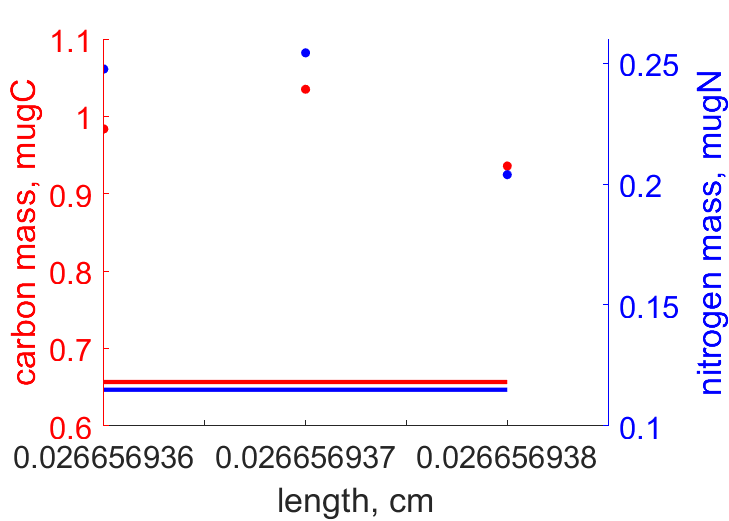
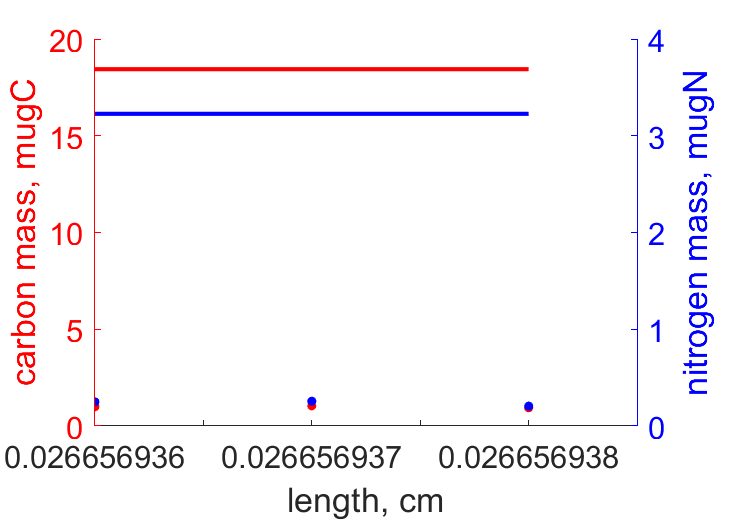
update

diff --git a/Tachidius_discipes/Tachidius_discipes_res.html b/Tachidius_discipes/Tachidius_discipes_res.html
@@ -44,7 +44,7 @@
   </div>
 
   <div class="par">
-  <h4>COMPLETE = 2.0; MRE =    8.874; SMAE =    1.218; SMSE =    1.178 </h4>
+  <h4>COMPLETE = 2.0; MRE =    0.204; SMAE =    0.203; SMSE =    0.077 </h4>
   </div>
 
   <p class="clear"></p>
@@ -53,31 +53,31 @@
   <h2>Data & predictions</h2>
   <TABLE id="prd">
     <TR  class="head"><TH>data</TH> <TH>prd</TH> <TH>RE</TH>  <TH>symbol</TH> <TH>units</TH> <TH>description</TH> </TR>
-    <TR><TD>4.375</TD> <TD>0.3134</TD> <TD>0.9284</TD> <TD>ah</TD> <TD>d</TD> <TD>age at hatch</TD></TR>
-    <TR><TD>0.006853</TD> <TD>0.002727</TD> <TD>0.6021</TD> <TD>Lh</TD> <TD>cm</TD> <TD>length at hatch</TD></TR>
-    <TR><TD>0.007812</TD> <TD>0.00311</TD> <TD>0.6019</TD> <TD>Lb</TD> <TD>cm</TD> <TD>length at birth</TD></TR>
-    <TR><TD>0.02666</TD> <TD>0.01096</TD> <TD>0.5888</TD> <TD>Lp</TD> <TD>cm</TD> <TD>length at puberty</TD></TR>
-    <TR><TD>2.057e-05</TD> <TD>9.092e-08</TD> <TD>0.9956</TD> <TD>Wdp</TD> <TD>g</TD> <TD>ultimate dry weight at puberty</TD></TR>
-    <TR><TD colspan="2">see figure</TD> <TD>0.4123</TD> <TD>tL12</TD> <TD colspan="2">time <font color="blue"><i>vs.</i></font> area^(1/2)</TD>
-    <TR><TD colspan="2">see figure</TD> <TD>0.4113</TD> <TD>tL15</TD> <TD colspan="2">time <font color="blue"><i>vs.</i></font> area^(1/2)</TD>
-    <TR><TD colspan="2">see figure</TD> <TD>0.39</TD> <TD>tL18</TD> <TD colspan="2">time <font color="blue"><i>vs.</i></font> area^(1/2)</TD>
-    <TR><TD colspan="2">see figure</TD> <TD>0.3866</TD> <TD>tL21</TD> <TD colspan="2">time <font color="blue"><i>vs.</i></font> area^(1/2)</TD>
-    <TR><TD colspan="2">see figure</TD> <TD>0.3989</TD> <TD>tL24</TD> <TD colspan="2">time <font color="blue"><i>vs.</i></font> area^(1/2)</TD>
-    <TR><TD colspan="2">see figure</TD> <TD>22.29</TD> <TD>tN12</TD> <TD colspan="2">time <font color="blue"><i>vs.</i></font> clutch size</TD>
-    <TR><TD colspan="2">see figure</TD> <TD>24.52</TD> <TD>tN15</TD> <TD colspan="2">time <font color="blue"><i>vs.</i></font> clutch size</TD>
-    <TR><TD colspan="2">see figure</TD> <TD>21.16</TD> <TD>tN18</TD> <TD colspan="2">time <font color="blue"><i>vs.</i></font> clutch size</TD>
-    <TR><TD colspan="2">see figure</TD> <TD>28.67</TD> <TD>tN21</TD> <TD colspan="2">time <font color="blue"><i>vs.</i></font> clutch size</TD>
-    <TR><TD colspan="2">see figure</TD> <TD>36.83</TD> <TD>tN24</TD> <TD colspan="2">time <font color="blue"><i>vs.</i></font> clutch size</TD>
-    <TR><TD colspan="2">see figure</TD> <TD>0.8943</TD> <TD>Tah</TD> <TD colspan="2">temperature <font color="blue"><i>vs.</i></font> age at hatching</TD>
-    <TR><TD colspan="2">see figure</TD> <TD>27.28</TD> <TD>TR</TD> <TD colspan="2">temperature <font color="blue"><i>vs.</i></font> max reproduction rate</TD>
-    <TR><TD colspan="2">see figure</TD> <TD>0.4224</TD> <TD>LWCN</TD> <TD colspan="2">length <font color="blue"><i>vs.</i></font> carbon mass</TD>
-    <TR><TD colspan="2">see figure</TD> <TD>0.8158</TD> <TD>Tap</TD> <TD colspan="2">temperature <font color="blue"><i>vs.</i></font> age at puberty</TD>
-    <TR class="psd"><TD>0.02</TD> <TD>0.02594</TD> <TD>0.2972</TD> <TD>psd.v</TD> <TD>cm/d</TD> <TD>energy conductance</TD></TR>
-    <TR class="psd"><TD>0.8</TD> <TD>0.8</TD> <TD>  0</TD> <TD>psd.kap</TD> <TD>-</TD> <TD>allocation fraction to soma</TD></TR>
+    <TR><TD>4.375</TD> <TD>4.041</TD> <TD>0.07625</TD> <TD>ah</TD> <TD>d</TD> <TD>age at hatch</TD></TR>
+    <TR><TD>0.006853</TD> <TD>0.007461</TD> <TD>0.08875</TD> <TD>Lh</TD> <TD>cm</TD> <TD>length at hatch</TD></TR>
+    <TR><TD>0.007812</TD> <TD>0.00812</TD> <TD>0.03944</TD> <TD>Lb</TD> <TD>cm</TD> <TD>length at birth</TD></TR>
+    <TR><TD>0.02666</TD> <TD>0.02195</TD> <TD>0.1767</TD> <TD>Lp</TD> <TD>cm</TD> <TD>length at puberty</TD></TR>
+    <TR><TD>2.057e-05</TD> <TD>2.049e-05</TD> <TD>0.003805</TD> <TD>Wdp</TD> <TD>g</TD> <TD>ultimate dry weight at puberty</TD></TR>
+    <TR><TD colspan="2">see figure</TD> <TD>0.2191</TD> <TD>tL12</TD> <TD colspan="2">time <font color="blue"><i>vs.</i></font> area^(1/2)</TD>
+    <TR><TD colspan="2">see figure</TD> <TD>0.1857</TD> <TD>tL15</TD> <TD colspan="2">time <font color="blue"><i>vs.</i></font> area^(1/2)</TD>
+    <TR><TD colspan="2">see figure</TD> <TD>0.1825</TD> <TD>tL18</TD> <TD colspan="2">time <font color="blue"><i>vs.</i></font> area^(1/2)</TD>
+    <TR><TD colspan="2">see figure</TD> <TD>0.1798</TD> <TD>tL21</TD> <TD colspan="2">time <font color="blue"><i>vs.</i></font> area^(1/2)</TD>
+    <TR><TD colspan="2">see figure</TD> <TD>0.1445</TD> <TD>tL24</TD> <TD colspan="2">time <font color="blue"><i>vs.</i></font> area^(1/2)</TD>
+    <TR><TD colspan="2">see figure</TD> <TD>0.1542</TD> <TD>tN12</TD> <TD colspan="2">time <font color="blue"><i>vs.</i></font> clutch size</TD>
+    <TR><TD colspan="2">see figure</TD> <TD>0.2581</TD> <TD>tN15</TD> <TD colspan="2">time <font color="blue"><i>vs.</i></font> clutch size</TD>
+    <TR><TD colspan="2">see figure</TD> <TD>0.2068</TD> <TD>tN18</TD> <TD colspan="2">time <font color="blue"><i>vs.</i></font> clutch size</TD>
+    <TR><TD colspan="2">see figure</TD> <TD>0.4694</TD> <TD>tN21</TD> <TD colspan="2">time <font color="blue"><i>vs.</i></font> clutch size</TD>
+    <TR><TD colspan="2">see figure</TD> <TD>0.3538</TD> <TD>tN24</TD> <TD colspan="2">time <font color="blue"><i>vs.</i></font> clutch size</TD>
+    <TR><TD colspan="2">see figure</TD> <TD>0.2498</TD> <TD>Tah</TD> <TD colspan="2">temperature <font color="blue"><i>vs.</i></font> age at hatching</TD>
+    <TR><TD colspan="2">see figure</TD> <TD>0.5537</TD> <TD>TR</TD> <TD colspan="2">temperature <font color="blue"><i>vs.</i></font> max reproduction rate</TD>
+    <TR><TD colspan="2">see figure</TD> <TD>91.32</TD> <TD>LWCN</TD> <TD colspan="2">length <font color="blue"><i>vs.</i></font> carbon mass</TD>
+    <TR><TD colspan="2">see figure</TD> <TD>0.1242</TD> <TD>Tap</TD> <TD colspan="2">temperature <font color="blue"><i>vs.</i></font> age at puberty</TD>
+    <TR class="psd"><TD>0.02</TD> <TD>0.01019</TD> <TD>0.4903</TD> <TD>psd.v</TD> <TD>cm/d</TD> <TD>energy conductance</TD></TR>
+    <TR class="psd"><TD>0.8</TD> <TD>0.9994</TD> <TD>0.2493</TD> <TD>psd.kap</TD> <TD>-</TD> <TD>allocation fraction to soma</TD></TR>
     <TR class="psd"><TD>0.95</TD> <TD>0.95</TD> <TD>  0</TD> <TD>psd.kap_R</TD> <TD>-</TD> <TD>reproduction efficiency</TD></TR>
-    <TR class="psd"><TD> 18</TD> <TD>927.5</TD> <TD>50.53</TD> <TD>psd.p_M</TD> <TD>J/d.cm^3</TD> <TD>vol-spec som maint</TD></TR>
+    <TR class="psd"><TD> 18</TD> <TD>2765</TD> <TD>152.6</TD> <TD>psd.p_M</TD> <TD>J/d.cm^3</TD> <TD>vol-spec som maint</TD></TR>
     <TR class="psd"><TD>0.002</TD> <TD>0.002</TD> <TD>  0</TD> <TD>psd.k_J</TD> <TD>1/d</TD> <TD>maturity maint rate coefficient</TD></TR>
-    <TR class="psd"><TD>0.8</TD> <TD>0.8001</TD> <TD>0.0001062</TD> <TD>psd.kap_G</TD> <TD>-</TD> <TD>growth efficiency</TD></TR>
+    <TR class="psd"><TD>0.8</TD> <TD>0.8006</TD> <TD>0.0007467</TD> <TD>psd.kap_G</TD> <TD>-</TD> <TD>growth efficiency</TD></TR>
   </TABLE>
   </div>
 
@@ -86,24 +86,24 @@
   <TABLE id="par">
     <TR class="head"><TH>symbol</TH> <TH>units</TH> <TH>value</TH>  <TH>free</TH> <TH>description</TH> </TR>
     <TR><TD>T_ref</TD> <TD>K</TD> <TD>293.1</TD> <TD>0</TD> <TD>Reference temperature</TD></TR>
-    <TR><TD>T_A</TD> <TD>K</TD> <TD>4000</TD> <TD>0</TD> <TD>Arrhenius temperature</TD></TR>
-    <TR><TD>z</TD> <TD>-</TD> <TD>0.03705</TD> <TD>1</TD> <TD>zoom factor</TD></TR>
+    <TR><TD>T_A</TD> <TD>K</TD> <TD>4001</TD> <TD>0</TD> <TD>Arrhenius temperature</TD></TR>
+    <TR><TD>z</TD> <TD>-</TD> <TD>0.05222</TD> <TD>1</TD> <TD>zoom factor</TD></TR>
     <TR><TD>F_m</TD> <TD>l/d.cm^2</TD> <TD>6.5</TD> <TD>0</TD> <TD>{F_m}, max spec searching rate</TD></TR>
     <TR><TD>kap_X</TD> <TD>-</TD> <TD>0.8</TD> <TD>0</TD> <TD>digestion efficiency of food to reserve</TD></TR>
     <TR><TD>kap_P</TD> <TD>-</TD> <TD>0.1</TD> <TD>0</TD> <TD>faecation efficiency of food to faeces</TD></TR>
-    <TR><TD>v</TD> <TD>cm/d</TD> <TD>0.02594</TD> <TD>0</TD> <TD>energy conductance</TD></TR>
-    <TR><TD>kap</TD> <TD>-</TD> <TD>0.8</TD> <TD>0</TD> <TD>allocation fraction to soma</TD></TR>
+    <TR><TD>v</TD> <TD>cm/d</TD> <TD>0.01019</TD> <TD>1</TD> <TD>energy conductance</TD></TR>
+    <TR><TD>kap</TD> <TD>-</TD> <TD>0.9994</TD> <TD>1</TD> <TD>allocation fraction to soma</TD></TR>
     <TR><TD>kap_R</TD> <TD>-</TD> <TD>0.95</TD> <TD>0</TD> <TD>reproduction efficiency</TD></TR>
-    <TR><TD>p_M</TD> <TD>J/d.cm^3</TD> <TD>927.5</TD> <TD>1</TD> <TD>[p_M], vol-spec somatic maint</TD></TR>
+    <TR><TD>p_M</TD> <TD>J/d.cm^3</TD> <TD>2765</TD> <TD>1</TD> <TD>[p_M], vol-spec somatic maint</TD></TR>
     <TR><TD>p_T</TD> <TD>J/d.cm^2</TD> <TD>  0</TD> <TD>0</TD> <TD>{p_T}, surf-spec somatic maint</TD></TR>
     <TR><TD>k_J</TD> <TD>1/d</TD> <TD>0.002</TD> <TD>0</TD> <TD>maturity maint rate coefficient</TD></TR>
-    <TR><TD>E_G</TD> <TD>J/cm^3</TD> <TD>4445</TD> <TD>1</TD> <TD>[E_G], spec cost for structure</TD></TR>
-    <TR><TD>E_Hb</TD> <TD>J</TD> <TD>9.787e-06</TD> <TD>1</TD> <TD>maturity at birth</TD></TR>
-    <TR><TD>E_Hp</TD> <TD>J</TD> <TD>0.0005102</TD> <TD>1</TD> <TD>maturity at puberty</TD></TR>
-    <TR><TD>h_a</TD> <TD>1/d^2</TD> <TD>3.021e-17</TD> <TD>1</TD> <TD>Weibull aging acceleration</TD></TR>
+    <TR><TD>E_G</TD> <TD>J/cm^3</TD> <TD>4442</TD> <TD>1</TD> <TD>[E_G], spec cost for structure</TD></TR>
+    <TR><TD>E_Hb</TD> <TD>J</TD> <TD>5.474e-06</TD> <TD>1</TD> <TD>maturity at birth</TD></TR>
+    <TR><TD>E_Hp</TD> <TD>J</TD> <TD>0.0002838</TD> <TD>1</TD> <TD>maturity at puberty</TD></TR>
+    <TR><TD>h_a</TD> <TD>1/d^2</TD> <TD>2.166e-21</TD> <TD>1</TD> <TD>Weibull aging acceleration</TD></TR>
     <TR><TD>s_G</TD> <TD>-</TD> <TD>0.0001</TD> <TD>0</TD> <TD>Gompertz stress coefficient</TD></TR>
-    <TR><TD>E_Hh</TD> <TD>J</TD> <TD>6.535e-06</TD> <TD>1</TD> <TD>maturity at hatch</TD></TR>
-    <TR><TD>del_M</TD> <TD>-</TD> <TD>0.6584</TD> <TD>1</TD> <TD>shape coefficient</TD></TR>
+    <TR><TD>E_Hh</TD> <TD>J</TD> <TD>4.003e-06</TD> <TD>1</TD> <TD>maturity at hatch</TD></TR>
+    <TR><TD>del_M</TD> <TD>-</TD> <TD>1.351</TD> <TD>1</TD> <TD>shape coefficient</TD></TR>
     <TR><TD>f</TD> <TD>-</TD> <TD>  1</TD> <TD>0</TD> <TD>scaled functional response for 0-var data</TD></TR>
   </TABLE>
   </div>

diff --git a/Tachidius_discipes/pars_init_Tachidius_discipes.m b/Tachidius_discipes/pars_init_Tachidius_discipes.m
@@ -6,26 +6,26 @@ metaPar.model = 'sbp';
 par.T_ref = 293.15;   free.T_ref = 0;   units.T_ref = 'K';        label.T_ref = 'Reference temperature'; 
 
 %% core primary parameters 
-par.T_A = 4778.7201;  free.T_A   = 1;   units.T_A = 'K';          label.T_A = 'Arrhenius temperature'; 
-par.z = 0.032715;     free.z     = 1;   units.z = '-';            label.z = 'zoom factor'; 
+par.T_A = 4000.7201;  free.T_A   = 0;   units.T_A = 'K';          label.T_A = 'Arrhenius temperature'; 
+par.z = 0.040822;     free.z     = 1;   units.z = '-';            label.z = 'zoom factor'; 
 par.F_m = 6.5;        free.F_m   = 0;   units.F_m = 'l/d.cm^2';   label.F_m = '{F_m}, max spec searching rate'; 
 par.kap_X = 0.8;      free.kap_X = 0;   units.kap_X = '-';        label.kap_X = 'digestion efficiency of food to reserve'; 
 par.kap_P = 0.1;      free.kap_P = 0;   units.kap_P = '-';        label.kap_P = 'faecation efficiency of food to faeces'; 
-par.v = 0.0073274;    free.v     = 1;   units.v = 'cm/d';         label.v = 'energy conductance'; 
-par.kap = 0.99;       free.kap   = 0;   units.kap = '-';          label.kap = 'allocation fraction to soma'; 
+par.v = 0.0058548;    free.v     = 1;   units.v = 'cm/d';         label.v = 'energy conductance'; 
+par.kap = 0.99208;    free.kap   = 1;   units.kap = '-';          label.kap = 'allocation fraction to soma'; 
 par.kap_R = 0.95;     free.kap_R = 0;   units.kap_R = '-';        label.kap_R = 'reproduction efficiency'; 
-par.p_M = 728.6382;   free.p_M   = 1;   units.p_M = 'J/d.cm^3';   label.p_M = '[p_M], vol-spec somatic maint'; 
+par.p_M = 727.5842;   free.p_M   = 1;   units.p_M = 'J/d.cm^3';   label.p_M = '[p_M], vol-spec somatic maint'; 
 par.p_T = 0;          free.p_T   = 0;   units.p_T = 'J/d.cm^2';   label.p_T = '{p_T}, surf-spec somatic maint'; 
 par.k_J = 0.002;      free.k_J   = 0;   units.k_J = '1/d';        label.k_J = 'maturity maint rate coefficient'; 
-par.E_G = 4335.6477;  free.E_G   = 1;   units.E_G = 'J/cm^3';     label.E_G = '[E_G], spec cost for structure'; 
-par.E_Hb = 6.544e-06; free.E_Hb  = 1;   units.E_Hb = 'J';         label.E_Hb = 'maturity at birth'; 
-par.E_Hp = 3.501e-04; free.E_Hp  = 1;   units.E_Hp = 'J';         label.E_Hp = 'maturity at puberty'; 
-par.h_a = 2.752e-17;  free.h_a   = 1;   units.h_a = '1/d^2';      label.h_a = 'Weibull aging acceleration'; 
+par.E_G = 4444.2079;  free.E_G   = 1;   units.E_G = 'J/cm^3';     label.E_G = '[E_G], spec cost for structure'; 
+par.E_Hb = 9.287e-06; free.E_Hb  = 1;   units.E_Hb = 'J';         label.E_Hb = 'maturity at birth'; 
+par.E_Hp = 2.327e-04; free.E_Hp  = 1;   units.E_Hp = 'J';         label.E_Hp = 'maturity at puberty'; 
+par.h_a = 2.725e-17;  free.h_a   = 1;   units.h_a = '1/d^2';      label.h_a = 'Weibull aging acceleration'; 
 par.s_G = 0.0001;     free.s_G   = 0;   units.s_G = '-';          label.s_G = 'Gompertz stress coefficient'; 
 
 %% other parameters 
-par.E_Hh = 6.537e-06; free.E_Hh  = 1;   units.E_Hh = 'J';         label.E_Hh = 'maturity at hatch'; 
-par.del_M = 0.75581;  free.del_M = 1;   units.del_M = '-';        label.del_M = 'shape coefficient'; 
+par.E_Hh = 6.351e-06; free.E_Hh  = 1;   units.E_Hh = 'J';         label.E_Hh = 'maturity at hatch'; 
+par.del_M = 0.66666;  free.del_M = 1;   units.del_M = '-';        label.del_M = 'shape coefficient'; 
 par.f = 1;            free.f     = 0;   units.f = '-';            label.f = 'scaled functional response for 0-var data'; 
 
 %% set chemical parameters from Kooy2010 

diff --git a/Tachidius_discipes/mydata_Tachidius_discipes.m b/Tachidius_discipes/mydata_Tachidius_discipes.m
@@ -297,8 +297,9 @@ bibkey.Tap = {'Vigliano'};
 % treat.tLW = {1, {'Carbon weight','Nitrogen weight'}};
 
 %% set weights for all real data
-weights = setweights(data, []);
-% weights.LWCN = 10* weights.LWCN; 
+ weights = setweights(data, []);
+  weights.LWCN= 0* weights.LWCN;
+ % weights.LWN = 0* weights.LWCN; 
 
 %% set pseudodata and respective weights
 [data, units, label, weights] = addpseudodata(data, units, label, weights);

diff --git a/Tachidius_discipes/run_Tachidius_discipes.m b/Tachidius_discipes/run_Tachidius_discipes.m
@@ -9,8 +9,8 @@ estim_options('default');
 estim_options('max_step_number', 5e2);
 estim_options('max_fun_evals',5e3);
 
-estim_options('pars_init_method', 2);
-estim_options('results_output', 4);
-estim_options('method', 'no');
+estim_options('pars_init_method',1);
+estim_options('results_output', 3);
+estim_options('method', 'nm');
 
 estim_pars;
